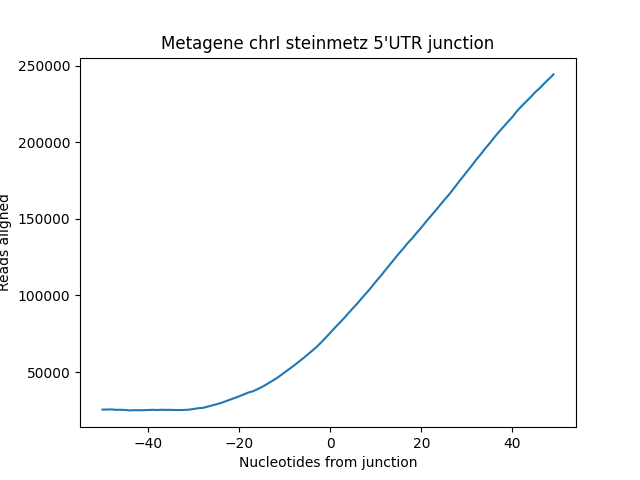
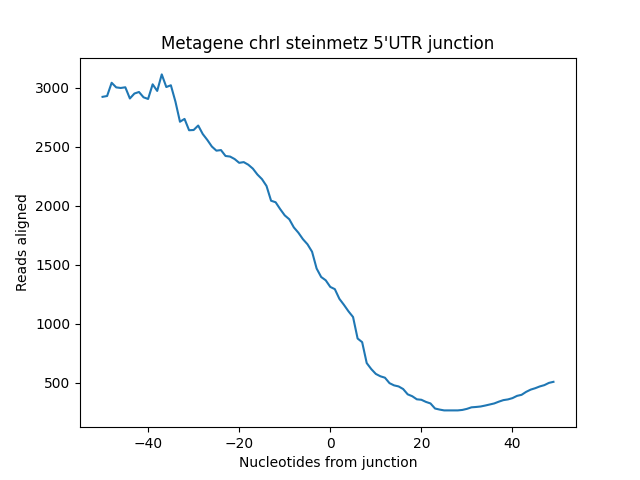
Changed the code to consider negative strand data.
Implemented a function that indexes the genome (in py dictionaries) by
chromosome and then by gene id.

Now density is calculated independently for the two strands and finally
added up.

Added the skeleton for a better random sampler.

Ran a couple of experiments to see the metagene plots for positive
strand only, negative strand only and both combined.

Script segfaults on chrVII. Maybe it's because RAM limitation on a
laptop? Will run on jr.

diff --git a/code/helper.py b/code/helper.py
@@ -20,7 +20,7 @@ DEBUG_MODE = True
 
 kYeastChroms = [
     "chrI", "chrII", "chrIII", "chrIV", "chrV", "chrVI", "chrVII", "chrVIII",
-    "chrIX", "chrX", "chrXI", "chrXII", "chrXIII", "chrXIV"
+    "chrIX", "chrX", "chrXI", "chrXII", "chrXIII", "chrXIV", "chrXV", "chrXVI"
 ]
 
 #gene:
@@ -88,6 +88,17 @@ def read_all_tifs(fname=_kDefaultTIFsFile,
     return grouped_tifs
 
 
+def organize_genome_by_chrom(genome):
+    grouped = {}
+    for c in kYeastChroms:
+        grouped[c] = {}
+
+    for gene_id, gene in genome.items():
+        grouped[gene.chrom][gene_id] = gene
+
+    return grouped
+
+
 def read_tifs_chrom(tifs, chrom, positive_strand_only=False):
     """
     For each gene in a chromosome group all tifs associated with it.
@@ -132,17 +143,34 @@ def grab_reads(chrom, reads, positive_strand_only=False):
     chr_reads = list(reads.fetch(chrom))
     if DEBUG_MODE:
         print("Processed mRNAs from chromosome " + chrom +
-              ". Total reads in chromosome: " + len(chr_reads) +
+              ". Total reads in chromosome: " + str(len(chr_reads)) +
               ". positive_strand_only=" + str(positive_strand_only))
+    return list(filtered)  # TODO(astanciu): inefficient?
 
 
 def generate_5utr_isoform_starts(tifs):
     """
     Extracts all the unique 5' ends from a pandas of tifs. 
     """
+
+    ret_p = []
+    ret_n = []
+    for i, x in tifs.iterrows():
+        if x['strand'] == "+":
+            ret_p.append(x['t5'])
+        else:
+            ret_n.append(x['t3'])
+
+    ret = [(x, "+") for x in sorted(list(unique(ret_p)))
+           ] + [(x, "-") for x in sorted(list(unique(ret_n)))]
     # This is a naive version for now
-    print("Grabbed all unique 5' ends of TIFS as junctions.")
-    return list(unique(tifs.t5))
+    print("type of ret[0] is " + str(type(ret[0])))
+    print(ret[0])
+    return ret
+    #if len(ret) <= 2:
+    #    return []  # never return the first junction site
+    #else:
+    #    return [ret[int(len(ret) / 2)]]
 
 
 def save_density_plot(density,
@@ -183,29 +211,57 @@ def generate_metagene(reads, tifs, chrom, density=None):
         Saves a density plot.
     """
     print("Generating metagene for chromosome " + chrom)
-    chrom_tifs = read_tifs_chrom(tifs, chrom, positive_strand_only=True)
+    chrom_tifs = read_tifs_chrom(tifs, chrom)
+
     if not density:
         density = generate_read_density_chrom(chrom, reads)
     print("Done generating density for metagene plot for chromosome " + chrom)
-    #TODO(astanciu): implement a funciton that generates the density of reads for a whole chromosome (no star/end params)
-
+    print(type(density))
     splits = []
 
     for gene, tifs in chrom_tifs.items():
         split_positions = generate_5utr_isoform_starts(tifs)
         splits = splits + split_positions
+        if not split_positions:
+            print("WTFFF...")
+            print(gene)
+            print(tifs)
         #list(np.random.choice(split_positions, 1, replace=False))
+    print("type of splits[0] in make_metagene " + str(type(splits[0])))
+    print(splits[0])
     print("Making the metagene plot...")
-    return make_metagene_plot(density,
-                              splits,
-                              "tester_output/meta_" + chrom + ".png",
-                              _kMetageneRangeNt,
-                              _kMetageneRangeNt,
-                              plottitle="Metagene " + chrom +
-                              " steinmetz 5'UTR junction")
+    return make_metagene_plot(
+        density,
+        splits,
+        "tester_output_experiments/meta_both_" + chrom + ".png",
+        _kMetageneRangeNt,
+        _kMetageneRangeNt,
+        plottitle="Metagene " + chrom + " steinmetz 5'UTR junction")
 
 
-def generate_random_metagene(reads, chrom, sample_size, density=None):
+def inside_annotated_regions(x, strand, genome_chrom):
+    return x > 200
+
+
+def generate_random_split_junctions(size, chrom_size, genome_chrom):
+    print("generating random junctions...")
+    splits_p = []
+    splits_p = list(unique(np.random.randint(1, chrom_size - 201, size)))
+    splits_p = [(x, "+") for x in splits_p
+                if inside_annotated_regions(x, "+", genome_chrom)]
+    splits_n = []
+    splits_n = list(unique(np.random.randint(1, chrom_size - 201, size)))
+    splits_n = [(x, "-") for x in splits_n
+                if inside_annotated_regions(x, "+", genome_chrom)]
+
+    return splits_n + splits_p
+
+
+def generate_random_metagene(reads,
+                             chrom,
+                             sample_size,
+                             density=None,
+                             genome=None):
     """
     Generates sample_size random indices inside chrom boundaries, 
     and makes a metagene around them.
@@ -225,17 +281,31 @@ def generate_random_metagene(reads, chrom, sample_size, density=None):
           " with randomly sampled junction sites")
     if not density:
         density = generate_read_density_chrom(chrom, reads)
-    splits = np.random.randint(201, len(density) - 201, size=sample_size)
+    if genome:
+        splits = generate_random_split_junctions(size=sample_size,
+                                                 chrom_size=len(density[0]),
+                                                 genome_chrom=genome[chrom])
+    else:
+        splits_p = list(
+            np.random.randint(201, chrom_size - 201, size=sample_size))
+        print(splits_p)
+        splits_p = [(x, "+") for x in splits_p]
+        print(splits_p)
+        splits_n = list(
+            np.random.randint(201, chrom_size - 201, size=sample_size))
+        splits_n = [(x, "-") for x in splits_n]
+
+        splits = splits_p + splits_n
 
     print(
         "Done generating density for random-sample-metagene plot for chromosome "
         + chrom)
-
+    print(splits)
     # TODO(astanciu): check for duplicates
     print("Generating random sample metagene...")
     return make_metagene_plot(density,
                               splits,
-                              "tester_output/meta_" + chrom +
+                              "tester_output_experiments/meta_both_" + chrom +
                               "_random_sample.png",
                               _kMetageneRangeNt,
                               _kMetageneRangeNt,
@@ -257,7 +327,7 @@ def make_metagene_plot(density,
 
     Parameters:
         density (int list): array of read density
-        splits (int list): Positions to generate metagenes around.
+        splits (int * str list): positions and their corresponding strand, used to generate metagenes around.
         plotname (string): name of plot to be saved
         upstream (int): How many nucleotides does the window include upstream of each split
         downstream (int): How many nucleotides does the window include downstream of each split 
@@ -271,9 +341,18 @@ def make_metagene_plot(density,
     print("Generating metagene plot... Number of overlapping sites is: " +
           str(len(splits)))
     meta = np.zeros(upstream + downstream)
-    for splitidx in splits:
-        meta = np.add(meta,
-                      density[(splitidx - upstream):(splitidx + downstream)])
+    print(type(density))
+    density_p, density_n = density
+
+    print("type of splits[0] is " + str(type(splits[0])))
+    print(splits[0])
+    for splitidx, strand in splits:
+        if strand == "+":
+            meta = np.add(
+                meta, density_p[(splitidx - upstream):(splitidx + downstream)])
+        else:
+            meta = np.add(
+                meta, density_n[(splitidx - upstream):(splitidx + downstream)])
 
     print("Saving metagene plot...")
     save_density_plot(meta,
@@ -283,16 +362,10 @@ def make_metagene_plot(density,
     return meta
 
 
-def read_files(bedfile=_kDefaultBedFile,
-               bamfile=_kDefaultBamFile,
-               mtiffile=_kDefaultMTIFFile,
-               positive_strand_only=False):
+def read_files(bedfile=_kDefaultBedFile, bamfile=_kDefaultBamFile):
     """
     Reads in a bedfile, a genome (bed) and steinmetz mTIF data.
     """
-
-    # TODO(astanciu): split into multiple functions
-
     print("Reading files...")
     bam = pysam.AlignmentFile(bamfile)
     # This is just an iterator in the file
@@ -301,13 +374,20 @@ def read_files(bedfile=_kDefaultBedFile,
     for g in genes:
         genes_dict[g.name] = g
 
+    print("Done reading files...")
+    return bam, genes_dict
+
+
+def read_mtifs(mtiffile=_kDefaultMTIFFile, positive_strand_only=False):
+    """
+    Reads in steinmetz mTIF data.
+    """
     mtifs = pd.read_csv(mtiffile,
                         sep='\t')  # Full pandas dataset loaded in memory
 
     if positive_strand_only:
         mtifs = mtifs[mtifs.strand == "+"]
-    print("Done reading files...")
-    return bam, genes_dict, mtifs
+    return mtifs
 
 
 def generate_read_density_chrom(chrom, allreads):
@@ -320,25 +400,40 @@ def generate_read_density_chrom(chrom, allreads):
     """
     print("generate_read_density_chrom chrom=" + chrom)
     end = 0
-    reads = grab_reads(chrom, allreads, positive_strand_only=True)
-    if DEBUG_MODE:
-        print("len(reads)=" + str(len(reads)))
+    reads = grab_reads(chrom, allreads)
     for read in reads:
         end = max(end, read.reference_end)
     if DEBUG_MODE:
+        print("len(reads)=" + str(len(reads)))
         print("chrom_size=" + str(end))
+
     # To compute the density first compute the delta in read density at each position in the genome
-    density = [0] * (end + 2)
+    density_p = [0] * (end + 2)
+    density_n = [0] * (end + 2)
     for read in reads:
-        # The start of a read increases the delta by 1
-        density[read.reference_start] = density[read.reference_start] + 1
-        # the end decreases delta by 1
-        density[read.reference_end + 1] = density[read.reference_end + 1] - 1
+        if read.is_reverse:
+            # Reads on negative strand have start < end. I'll leave the if-else here for more fine grained control
+            # The start of a read increases the delta by 1
+            density_n[
+                read.reference_start] = density_n[read.reference_start] + 1
+            # the end decreases delta by 1
+            density_n[read.reference_end +
+                      1] = density_n[read.reference_end + 1] - 1
+        else:
+            # The start of a read increases the delta by 1
+            density_p[
+                read.reference_start] = density_p[read.reference_start] + 1
+            # the end decreases delta by 1
+            density_p[read.reference_end +
+                      1] = density_p[read.reference_end + 1] - 1
     # Summing up the deltas gives us the density.
-    for i in range(1, len(density)):
-        density[i] = density[i] + density[i - 1]
+    for i in range(1, len(density_p)):
+        density_p[i] = density_p[i] + density_p[i - 1]
+        density_n[i] = density_n[i] + density_n[i - 1]
     print("Done generating read density...")
-    return density
+    print("Sum of density_n: " + str(sum(density_n)))
+    print("Sum of density_p: " + str(sum(density_p)))
+    return (density_p, density_n)
 
 
 def generate_read_density_interval(start, end, allreads):

diff --git a/code/tester.py b/code/tester.py
@@ -8,35 +8,43 @@ interactive(True)
 _kDefaultChrom1Size = 229424
 
 # Test for read_files (no assertions; if it works, it works :)) )
-bamfile, genes_dict, steinmetz = helper.read_files(positive_strand_only=True)
+bamfile, genes_dict = helper.read_files()
+steinmetz = helper.read_mtifs()
+
+grouped_genes = helper.organize_genome_by_chrom(genes_dict)
 
 # Test for grab_reads
-chr1_reads = helper.grab_reads("chrI", bamfile, positive_strand_only=True)
-
-# Test for generate_read_density
-density = helper.generate_read_density_interval(0, _kDefaultChrom1Size,
-                                                bamfile)
-density2 = helper.generate_read_density_chrom("chrI", bamfile)
-assert np.equal(density, density2).all()
-
-# Test for read all tifs
-tifs = helper.read_all_tifs(positive_strand_only=True)
-
-# Test for generate metagene:
-# Overlaps all junctions found in the tif file and creates a metagene plot for -200 +200 nt of each junction
-# tests generate_5utr_isoform_starts and make_metagene_plot
-
-chr1_genes = [gene for gene in genes_dict.values() if gene.chrom == "chrI"]
-
-print("We have " + str(len(chr1_genes)) + " genes on + strand in chrI")
+#chr1_reads = helper.grab_reads("chrI", bamfile, positive_strand_only=True)
+#
+## Test for generate_read_density
+#density = helper.generate_read_density_interval(0, _kDefaultChrom1Size,
+#                                                bamfile)
+#density2 = helper.generate_read_density_chrom("chrI", bamfile)
+#assert np.equal(density, density2).all()
+#
+## Test for read all tifs
+tifs = helper.read_all_tifs()
+#
+## Test for generate metagene:
+## Overlaps all junctions found in the tif file and creates a metagene plot for -200 +200 nt of each junction
+## tests generate_5utr_isoform_starts and make_metagene_plot
+#
+#chr1_genes = [gene for gene in genes_dict.values() if gene.chrom == "chrI"]
+#
+#print("We have " + str(len(chr1_genes)) + " genes on + strand in chrI")
 
 
 def make_metagenes_for_chrom(chrom):
     chr_density = helper.generate_read_density_chrom(chrom, bamfile)
     helper.generate_metagene(bamfile, tifs, chrom, density=chr_density)
-    helper.generate_random_metagene(bamfile, chrom, 1231, density=chr_density)
+    helper.generate_random_metagene(bamfile,
+                                    chrom,
+                                    1231,
+                                    density=chr_density,
+                                    genome=grouped_genes)
 
 
+#make_metagenes_for_chrom("chrI")
 for chrom in helper.kYeastChroms:
     make_metagenes_for_chrom(chrom)
 
